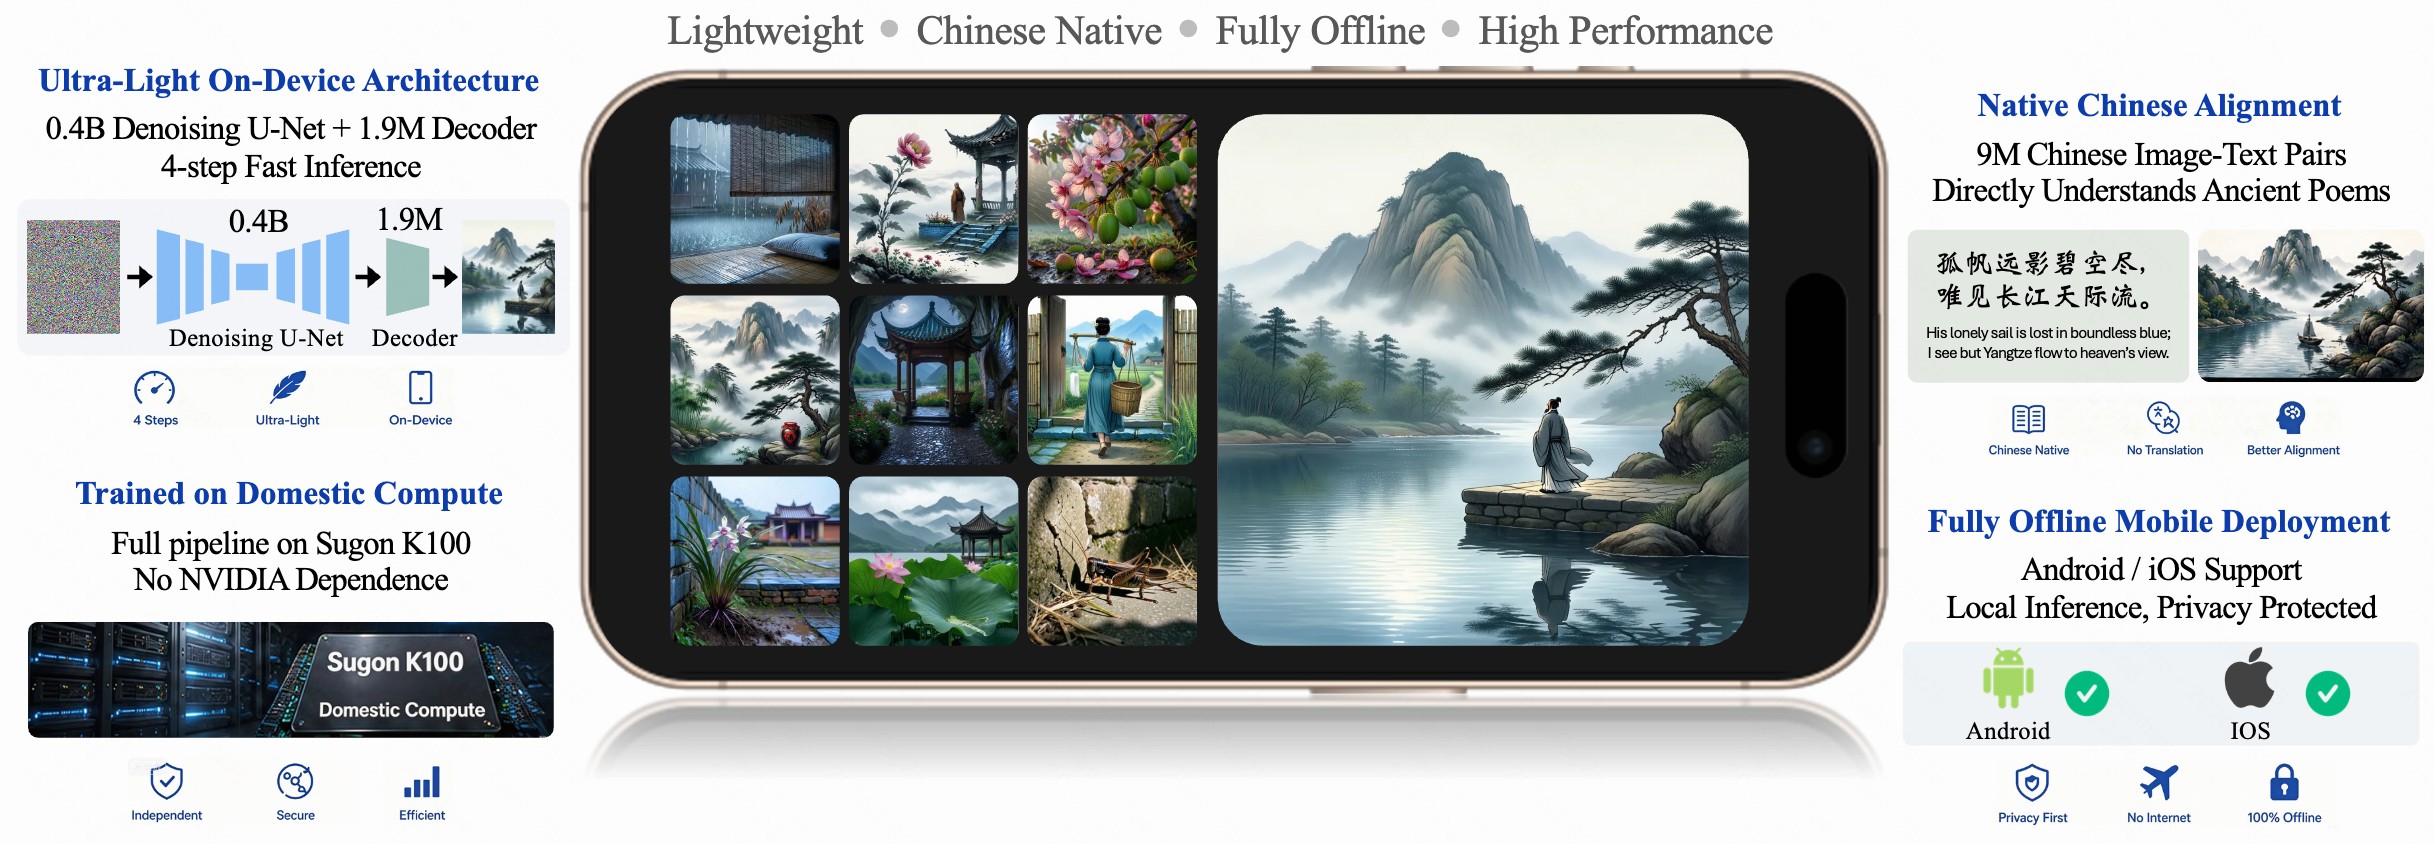
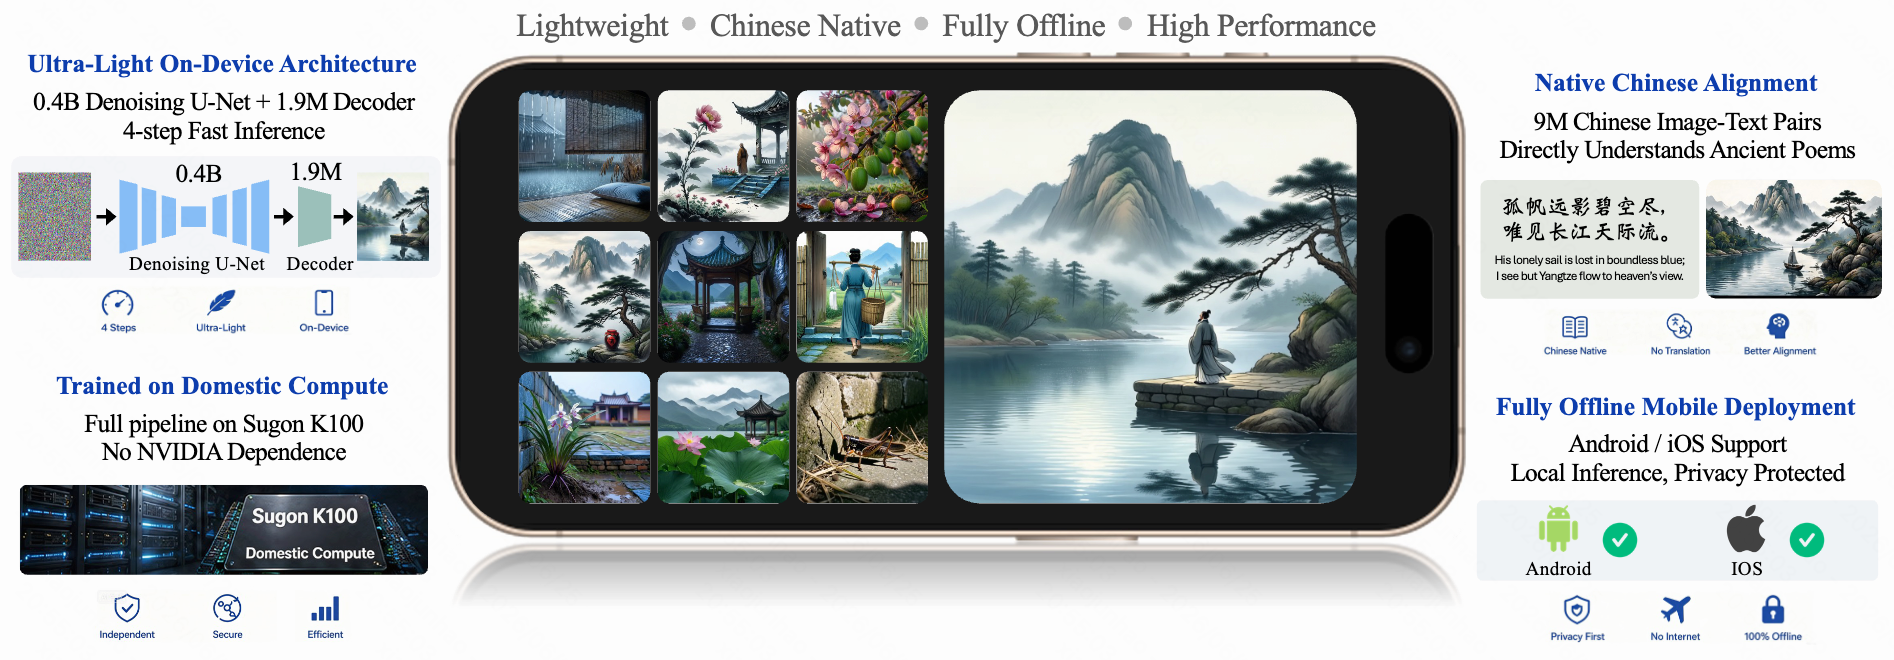
update

diff --git a/README.md b/README.md
@@ -145,21 +145,21 @@ Despite its compact scale, JuZhou 1.0 achieves an overall **GenEval score of 0.6
 ### Foundational Generation Quality (Qualitative)
 
 <p align="center">
-  <img src="JuZhou_Technical_Report/figures/sec05_experiments/foundational_jz_fig/144000_jpg_prompt2_img2.jpg" width="19%">
-  <img src="JuZhou_Technical_Report/figures/sec05_experiments/foundational_sd_fig/002_20260309_193620.jpg" width="19%">
-  <img src="JuZhou_Technical_Report/figures/sec05_experiments/SDV21/image_001.jpg" width="19%">
-  <img src="JuZhou_Technical_Report/figures/sec05_experiments/SDxl/image_001.jpg" width="19%">
-  <img src="JuZhou_Technical_Report/figures/sec05_experiments/SD35/image_001.jpg" width="19%">
+  <img src="assets/jz_sample1.jpg" width="19%">
+  <img src="assets/sd15_sample1.jpg" width="19%">
+  <img src="assets/sd21_sample1.jpg" width="19%">
+  <img src="assets/sdxl_sample1.jpg" width="19%">
+  <img src="assets/sd35_sample1.jpg" width="19%">
   <br>
   <em><b>Ours (28 steps)</b> &nbsp;&nbsp; <b>SD1.5</b> &nbsp;&nbsp;&nbsp;&nbsp;&nbsp;&nbsp;&nbsp;&nbsp;&nbsp;&nbsp; <b>SD2.1</b> &nbsp;&nbsp;&nbsp;&nbsp;&nbsp;&nbsp;&nbsp;&nbsp;&nbsp;&nbsp; <b>SDXL</b> &nbsp;&nbsp;&nbsp;&nbsp;&nbsp;&nbsp;&nbsp;&nbsp;&nbsp;&nbsp; <b>SD3.5-L</b></em>
 </p>
 
 <p align="center">
-  <img src="JuZhou_Technical_Report/figures/sec05_experiments/foundational_jz_fig/144000_jpg_prompt1_img1.jpg" width="19%">
-  <img src="JuZhou_Technical_Report/figures/sec05_experiments/foundational_sd_fig/001_20260309_193617.jpg" width="19%">
-  <img src="JuZhou_Technical_Report/figures/sec05_experiments/SDV21/image_000.jpg" width="19%">
-  <img src="JuZhou_Technical_Report/figures/sec05_experiments/SDxl/image_000.jpg" width="19%">
-  <img src="JuZhou_Technical_Report/figures/sec05_experiments/SD35/image_000.jpg" width="19%">
+  <img src="assets/jz_sample2.jpg" width="19%">
+  <img src="assets/sd15_sample2.jpg" width="19%">
+  <img src="assets/sd21_sample2.jpg" width="19%">
+  <img src="assets/sdxl_sample2.jpg" width="19%">
+  <img src="assets/sd35_sample2.jpg" width="19%">
   <br>
   <em>Despite its 0.385B parameter budget, JuZhou 1.0 consistently achieves competitive visual fidelity in lighting, texture, and compositional structure against the Stable Diffusion family.</em>
 </p>
@@ -167,11 +167,11 @@ Despite its compact scale, JuZhou 1.0 achieves an overall **GenEval score of 0.6
 ### Distillation Efficacy: 28 Steps → 4 Steps
 
 <p align="center">
-  <img src="JuZhou_Technical_Report/figures/sec05_experiments/28vs4_e/e_0004.jpg" width="19%">
-  <img src="JuZhou_Technical_Report/figures/sec05_experiments/28vs4_e/e_0008.jpg" width="19%">
-  <img src="JuZhou_Technical_Report/figures/sec05_experiments/28vs4_e/e_0016.jpg" width="19%">
-  <img src="JuZhou_Technical_Report/figures/sec05_experiments/28vs4_e/e_0028.jpg" width="19%">
-  <img src="JuZhou_Technical_Report/figures/sec05_experiments/28vs4_e/e_dmd_4.jpg" width="19%">
+  <img src="assets/distill_4step.jpg" width="19%">
+  <img src="assets/distill_8step.jpg" width="19%">
+  <img src="assets/distill_16step.jpg" width="19%">
+  <img src="assets/distill_28step.jpg" width="19%">
+  <img src="assets/distill_dmd4.jpg" width="19%">
   <br>
   <em><b>4 steps (orig.)</b> &nbsp; <b>8 steps</b> &nbsp;&nbsp;&nbsp;&nbsp;&nbsp;&nbsp; <b>16 steps</b> &nbsp;&nbsp;&nbsp;&nbsp;&nbsp; <b>28 steps</b> &nbsp;&nbsp;&nbsp;&nbsp;&nbsp; <b>4 steps (distilled)</b></em>
   <br>
@@ -181,10 +181,10 @@ Despite its compact scale, JuZhou 1.0 achieves an overall **GenEval score of 0.6
 ### Classical Chinese Poetry-to-Image Generation
 
 <p align="center">
-  <img src="JuZhou_Technical_Report/figures/sec07_application/chinese_poetry/0118_8500_jpg_prompt1_img3.jpg" width="23%">
-  <img src="JuZhou_Technical_Report/figures/sec07_application/chinese_poetry/0118_8500_jpg_prompt2_img3.jpg" width="23%">
-  <img src="JuZhou_Technical_Report/figures/sec07_application/chinese_poetry/0118_8500_jpg_prompt3_img4.jpg" width="23%">
-  <img src="JuZhou_Technical_Report/figures/sec07_application/chinese_poetry/0118_8500_jpg_prompt4_img1.jpg" width="23%">
+  <img src="assets/poetry_popart.jpg" width="23%">
+  <img src="assets/poetry_3d.jpg" width="23%">
+  <img src="assets/poetry_comic.jpg" width="23%">
+  <img src="assets/poetry_chinese.jpg" width="23%">
   <br>
   <em><b>Pop Art</b> &nbsp;&nbsp;&nbsp;&nbsp;&nbsp;&nbsp;&nbsp;&nbsp;&nbsp;&nbsp;&nbsp; <b>3D Animated Film</b> &nbsp;&nbsp;&nbsp;&nbsp;&nbsp;&nbsp;&nbsp;&nbsp; <b>Comic</b> &nbsp;&nbsp;&nbsp;&nbsp;&nbsp;&nbsp;&nbsp;&nbsp;&nbsp;&nbsp;&nbsp;&nbsp; <b>Chinese Classical Painting</b></em>
   <br>
@@ -272,10 +272,10 @@ Mojie is a mobile application that transforms classical Chinese poetry into high
 | 👥 **Community** | Share creations, browse, like, and comment on poetry-inspired artwork |
 
 <p align="center">
-  <img src="JuZhou_Technical_Report/figures/sec07_application/screenshots/a.png" width="22%">
-  <img src="JuZhou_Technical_Report/figures/sec07_application/screenshots/b.png" width="22%">
-  <img src="JuZhou_Technical_Report/figures/sec07_application/screenshots/c.png" width="22%">
-  <img src="JuZhou_Technical_Report/figures/sec07_application/screenshots/d.png" width="22%">
+  <img src="assets/a.png" width="22%">
+  <img src="assets/b.png" width="22%">
+  <img src="assets/c.png" width="22%">
+  <img src="assets/d.png" width="22%">
   <br>
   <em>Mojie app screenshots: (a) Main interface, (b) Offline generation, (c) Poetry library, (d) Community sharing.</em>
 </p>